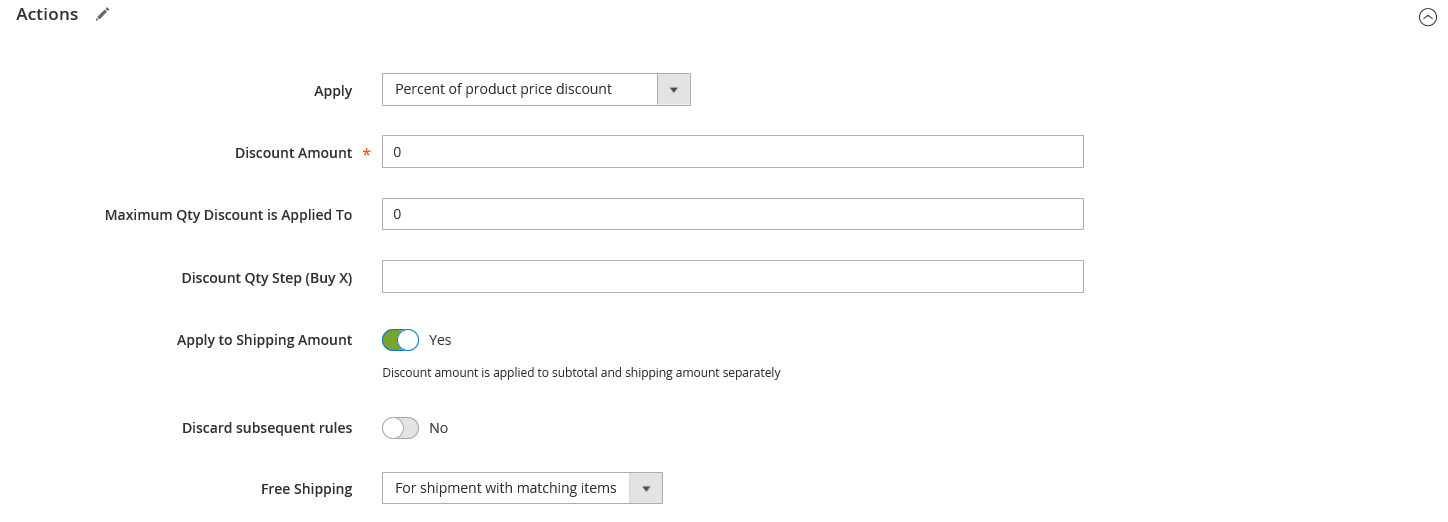
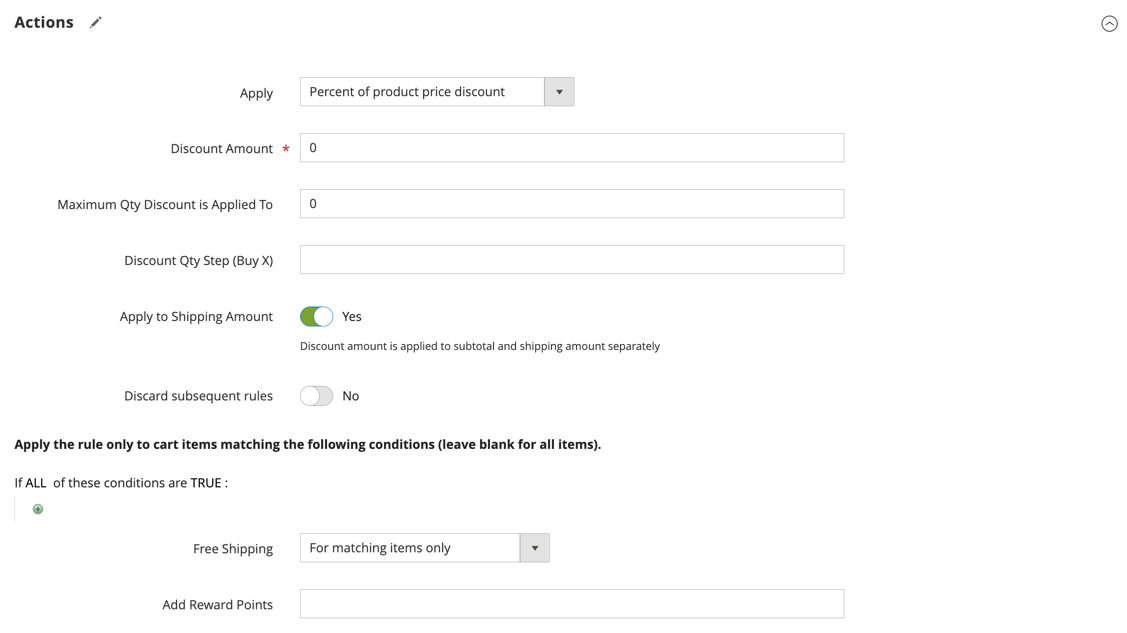
Fix GH#22
Updates to address https://github.com/AdobeDocs/commerce-admin.en/issues/22

diff --git a/help/merchandising-promotions/price-rules-cart-buy-this-get-that.md b/help/merchandising-promotions/price-rules-cart-buy-this-get-that.md
@@ -44,14 +44,11 @@ If left blank, the rule is triggered for every cart.
 
 1. To apply the rule only to specific items in the cart, complete the condition to describe the cart items and/or product attributes that are required for the promotion.
 
-    The following example uses the SKU to apply the rule to all associated variations of a configurable product.
+   The following example uses the SKU to apply the rule to all associated variations of a configurable product.
 
-    ![Cart price rule - condition for cart items](./assets/buy-3-get-1-actions-condition.png)<!-- zoom -->
+   ![Cart price rule - condition for cart items](./assets/buy-3-get-1-actions-condition.png)<!-- zoom -->
 
-1. To include **[!UICONTROL Free Shipping]**, choose one of the following options:
-
-   - `For matching items only`
-   - `For shipment with matching items`
+1. To include **[!UICONTROL Free Shipping]**, choose `For matching items only`.
 
 1. Click **[!UICONTROL Save and Continue Edit]** and complete the rest of the rule as needed.
 

diff --git a/help/merchandising-promotions/price-rules-cart-free-shipping.md b/help/merchandising-promotions/price-rules-cart-free-shipping.md
@@ -38,7 +38,7 @@ Follow the steps below to set up the type of free shipping promotion that you wa
 
    - Set **[!UICONTROL Apply]** to `Percent of product price discount`.
    - Set **[!UICONTROL Apply to Shipping Amount]** to `Yes`.
-   - Set **[!UICONTROL Free Shipping]** to `For shipment with matching items`.
+   - Set **[!UICONTROL Free Shipping]** to `For matching items only`.
 
    ![Cart price rule - free shipping actions](./assets/free-shipping-actions.png)<!-- zoom -->
 
@@ -60,9 +60,7 @@ Follow the steps below to set up the type of free shipping promotion that you wa
 
    - Set **[!UICONTROL Apply]** to `Percent of product price discount`.
    - Set **[!UICONTROL Apply to Shipping Amount]** to `Yes`.
-   - Set **[!UICONTROL Free Shipping]** to `For shipment with matching items`.
-
-   ![Cart price rule - free shipping actions](./assets/free-shipping-actions-example2.png)<!-- zoom -->
+   - Set **[!UICONTROL Free Shipping]** to `For matching items only`.
 
 ## Step 3. Complete the labels
 
